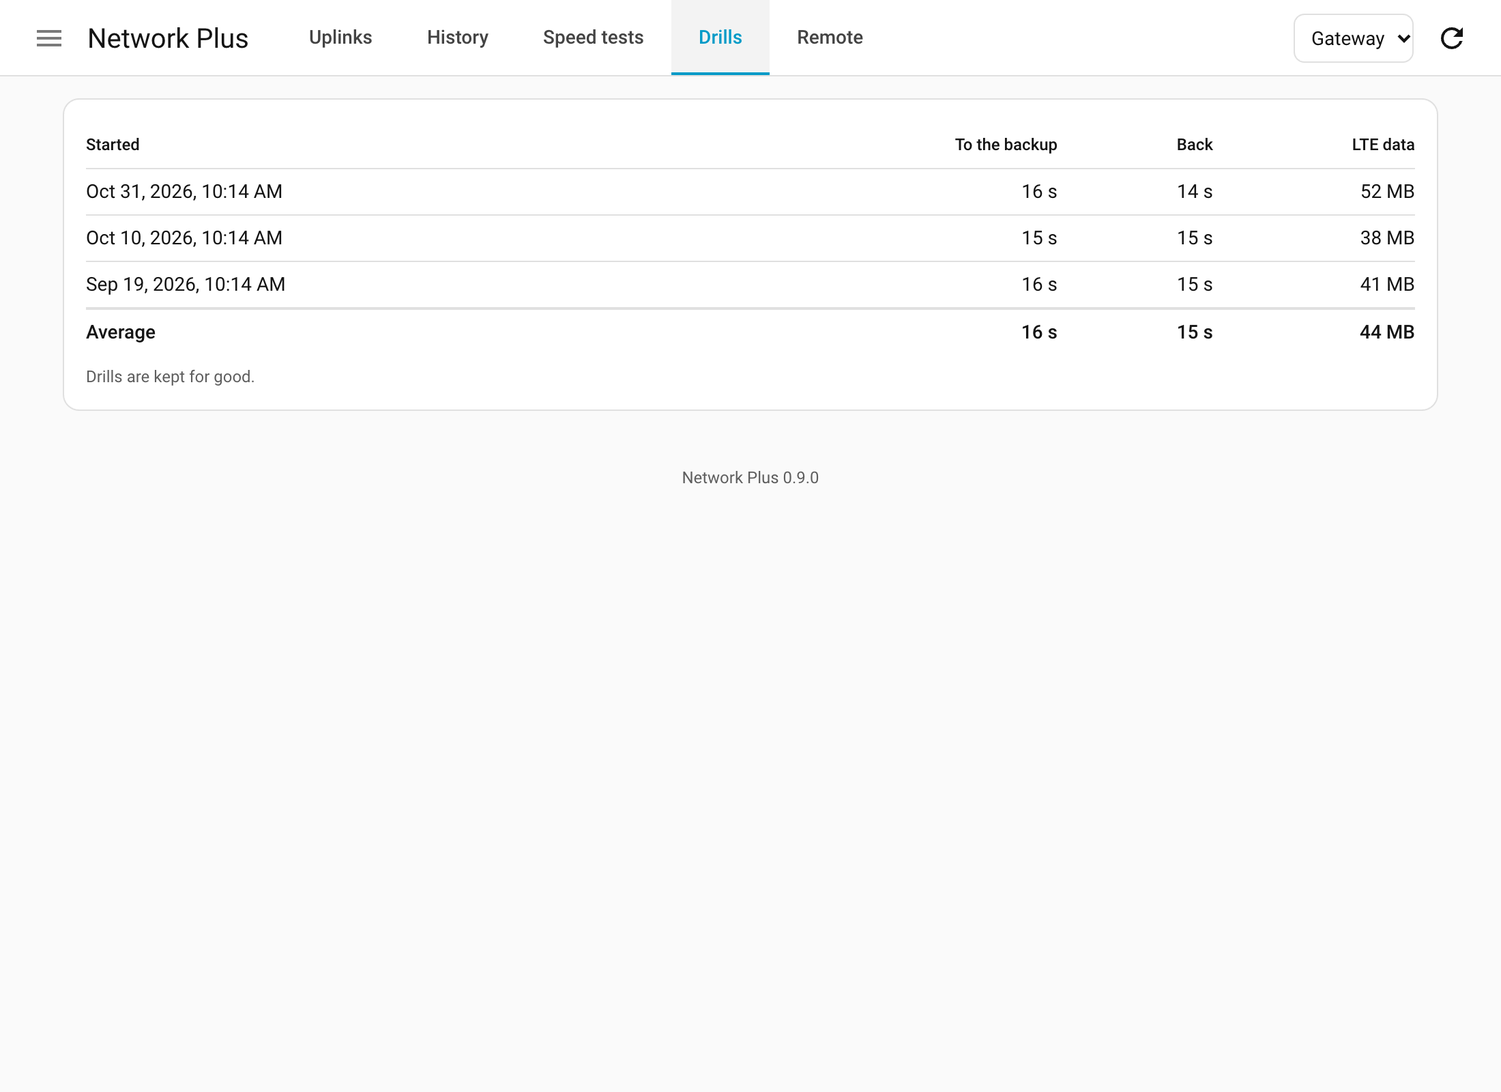
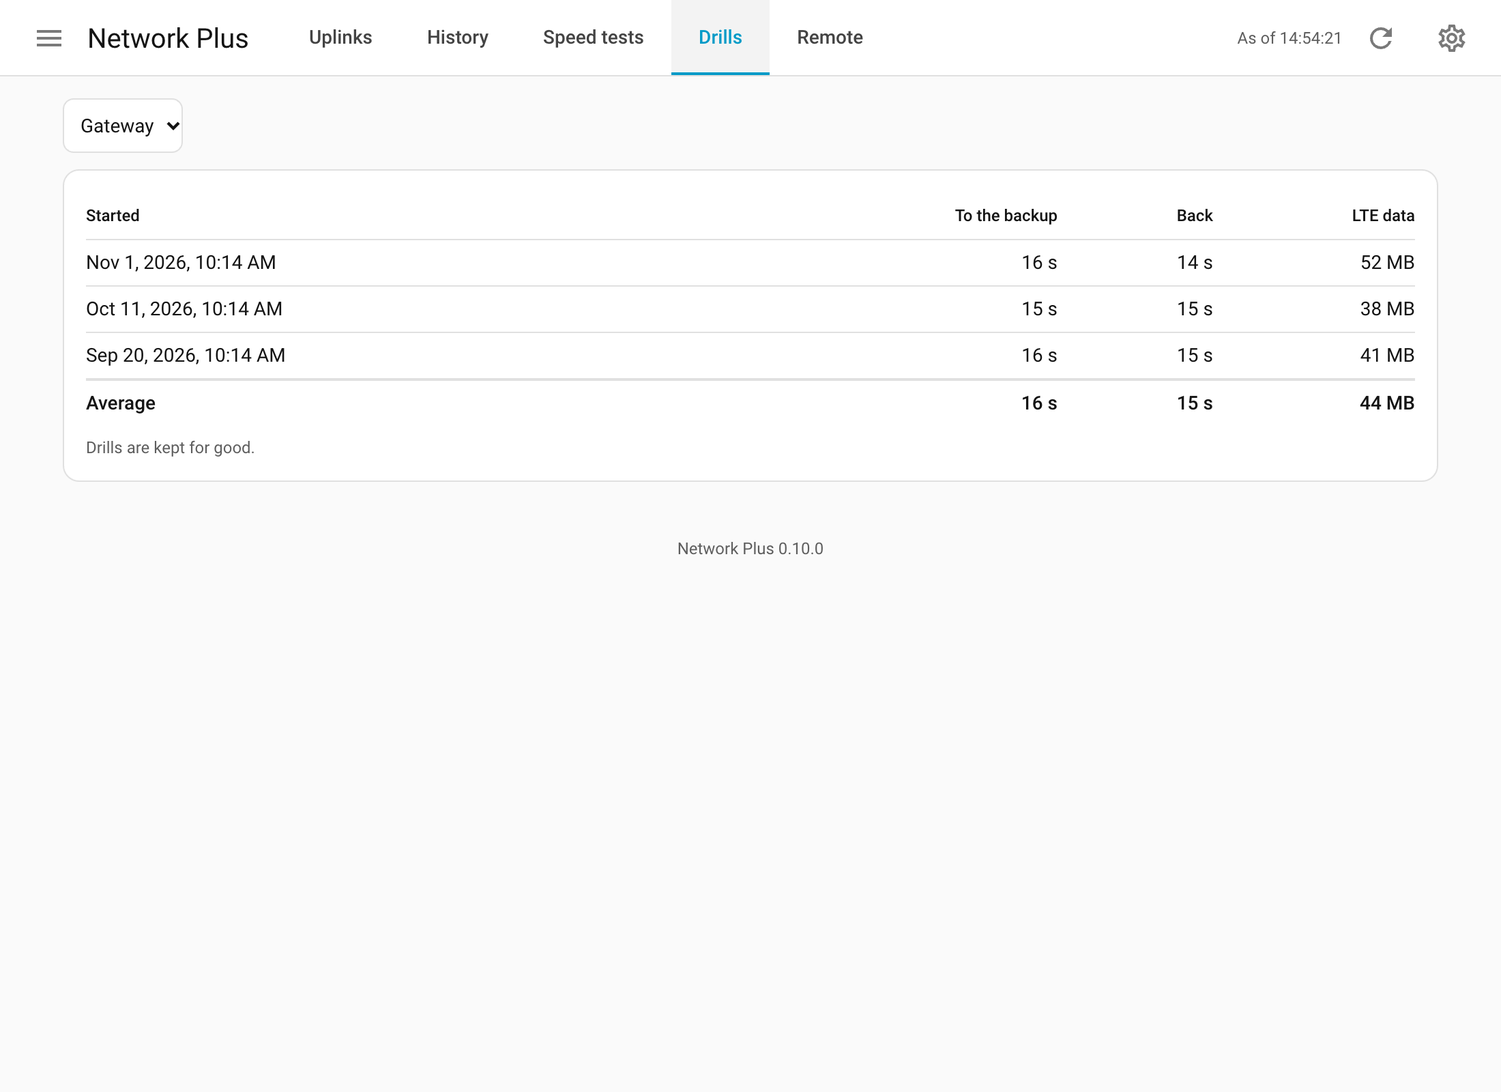
Same header as every page: stamp, refresh, settings (0.10.0)
The toolbar of the page ends, on every tab, with the time the page last
got its data ("As of HH:MM:SS", hidden on a phone), refresh (the overview
request again over the WebSocket, spinning while it loads) and settings
(Home Assistant's page of the integration by in-app navigation), as
STANDARD.md §7 of the repository template asks. The console choice moved
from the toolbar to the top of the page. The page check tests the order on
every tab, that refresh sends the request, shows changed data and a new
stamp, that settings opens the integration page without a reload, and the
stamp hidden on a phone. Screenshots and docs updated.

diff --git a/custom_components/network_plus/frontend/network-plus-panel.js b/custom_components/network_plus/frontend/network-plus-panel.js
@@ -4,6 +4,8 @@
 // integration over the WebSocket API; the page is built from Home Assistant's
 // own elements (ha-card, ha-alert, ha-icon-button) and its theme.
 const PANEL_PATH = "/network-plus";
+// Home Assistant's own page of the integration, behind the settings button
+const SETTINGS_PATH = "/config/integrations/integration/network_plus";
 // The page asks again this often while it is open (ms)
 const REFRESH = 30000;
 
@@ -15,6 +17,8 @@ if (!customElements.get("network-plus-panel")) {
     speedtests: "M12,16A3,3 0 0,1 9,13C9,11.88 9.61,10.9 10.5,10.39L20.21,4.77L14.68,14.35C14.18,15.33 13.17,16 12,16M12,3C13.81,3 15.5,3.5 16.97,4.32L14.87,5.53C14,5.19 13,5 12,5A8,8 0 0,0 4,13C4,15.21 4.89,17.21 6.34,18.65H6.35C6.74,19.04 6.74,19.67 6.35,20.06C5.96,20.45 5.32,20.45 4.93,20.07V20.07C3.12,18.26 2,15.76 2,13A10,10 0 0,1 12,3M22,13C22,15.76 20.88,18.26 19.07,20.07V20.07C18.68,20.45 18.05,20.45 17.66,20.06C17.27,19.67 17.27,19.04 17.66,18.65V18.65C19.11,17.2 20,15.21 20,13C20,12 19.81,11 19.46,10.1L20.67,8C21.5,9.5 22,11.18 22,13Z",
     drills: "M21,9L17,5V8H10V10H17V13M7,11L3,15L7,19V16H14V14H7V11Z",
     remote: "M9,5H15L12,8L9,5M10.5,14.66C10.2,15 10,15.5 10,16A2,2 0 0,0 12,18A2,2 0 0,0 14,16C14,15.45 13.78,14.95 13.41,14.59L14.83,13.17C15.55,13.9 16,14.9 16,16A4,4 0 0,1 12,20A4,4 0 0,1 8,16C8,14.93 8.42,13.96 9.1,13.25L9.09,13.24L16.17,6.17V6.17C16.89,5.45 17.89,5 19,5A4,4 0 0,1 23,9A4,4 0 0,1 19,13C17.9,13 16.9,12.55 16.17,11.83L17.59,10.41C17.95,10.78 18.45,11 19,11A2,2 0 0,0 21,9A2,2 0 0,0 19,7C18.45,7 17.95,7.22 17.59,7.59L10.5,14.66M6.41,7.59C6.05,7.22 5.55,7 5,7A2,2 0 0,0 3,9A2,2 0 0,0 5,11C5.55,11 6.05,10.78 6.41,10.41L7.83,11.83C7.1,12.55 6.1,13 5,13A4,4 0 0,1 1,9A4,4 0 0,1 5,5C6.11,5 7.11,5.45 7.83,6.17V6.17L10.59,8.93L9.17,10.35L6.41,7.59Z",
+    // mdi:cog-outline
+    settings: "M12,8A4,4 0 0,1 16,12A4,4 0 0,1 12,16A4,4 0 0,1 8,12A4,4 0 0,1 12,8M12,10A2,2 0 0,0 10,12A2,2 0 0,0 12,14A2,2 0 0,0 14,12A2,2 0 0,0 12,10M10,22C9.75,22 9.54,21.82 9.5,21.58L9.13,18.93C8.5,18.68 7.96,18.34 7.44,17.94L4.95,18.95C4.73,19.03 4.46,18.95 4.34,18.73L2.34,15.27C2.21,15.05 2.27,14.78 2.46,14.63L4.57,12.97L4.5,12L4.57,11L2.46,9.37C2.27,9.22 2.21,8.95 2.34,8.73L4.34,5.27C4.46,5.05 4.73,4.96 4.95,5.05L7.44,6.05C7.96,5.66 8.5,5.32 9.13,5.07L9.5,2.42C9.54,2.18 9.75,2 10,2H14C14.25,2 14.46,2.18 14.5,2.42L14.87,5.07C15.5,5.32 16.04,5.66 16.56,6.05L19.05,5.05C19.27,4.96 19.54,5.05 19.66,5.27L21.66,8.73C21.79,8.95 21.73,9.22 21.54,9.37L19.43,11L19.5,12L19.43,13L21.54,14.63C21.73,14.78 21.79,15.05 21.66,15.27L19.66,18.73C19.54,18.95 19.27,19.04 19.05,18.95L16.56,17.95C16.04,18.34 15.5,18.68 14.87,18.93L14.5,21.58C14.46,21.82 14.25,22 14,22H10M11.25,4L10.88,6.61C9.68,6.86 8.62,7.5 7.85,8.39L5.44,7.35L4.69,8.65L6.8,10.2C6.4,11.37 6.4,12.64 6.8,13.8L4.68,15.36L5.43,16.66L7.86,15.62C8.63,16.5 9.68,17.14 10.87,17.38L11.24,20H12.76L13.13,17.39C14.32,17.14 15.37,16.5 16.14,15.62L18.57,16.66L19.32,15.36L17.2,13.81C17.6,12.64 17.6,11.37 17.2,10.2L19.31,8.65L18.56,7.35L16.15,8.39C15.38,7.5 14.32,6.86 13.12,6.62L12.75,4H11.25Z",
     refresh: "M17.65,6.35C16.2,4.9 14.21,4 12,4A8,8 0 0,0 4,12A8,8 0 0,0 12,20C15.73,20 18.84,17.45 19.73,14H17.65C16.83,16.33 14.61,18 12,18A6,6 0 0,1 6,12A6,6 0 0,1 12,6C13.66,6 15.14,6.69 16.22,7.78L13,11H20V4L17.65,6.35Z",
   };
 
@@ -30,7 +34,7 @@ if (!customElements.get("network-plus-panel")) {
   const TEXTS = {
     en: {
       tabUplinks: "Uplinks", tabEvents: "History", tabSpeedtests: "Speed tests", tabDrills: "Drills",
-      tabRemote: "Remote", menu: "Menu", refresh: "Refresh", console: "Console",
+      tabRemote: "Remote", menu: "Menu", refresh: "Refresh", settings: "Settings", asOf: "As of {t}", console: "Console",
       loading: "Loading …", noConsole: "No console is set up. Add one under Settings → Devices & services.",
       notLoaded: "This console is not loaded at the moment. Home Assistant tries again by itself.",
       failed: "The data could not be read", now: "Now", active: "active", preferred: "preferred", backup: "backup",
@@ -53,7 +57,7 @@ if (!customElements.get("network-plus-panel")) {
     },
     de: {
       tabUplinks: "Leitungen", tabEvents: "Verlauf", tabSpeedtests: "Speedtests", tabDrills: "Übungen",
-      tabRemote: "Fernzugriff", menu: "Menü", refresh: "Aktualisieren", console: "Konsole",
+      tabRemote: "Fernzugriff", menu: "Menü", refresh: "Aktualisieren", settings: "Einstellungen", asOf: "Stand {t}", console: "Konsole",
       loading: "Lädt …", noConsole: "Keine Konsole eingerichtet. Unter Einstellungen → Geräte & Dienste hinzufügen.",
       notLoaded: "Diese Konsole ist gerade nicht geladen. Home Assistant versucht es selbst erneut.",
       failed: "Die Daten ließen sich nicht lesen", now: "Jetzt", active: "aktiv", preferred: "bevorzugt", backup: "Backup",
@@ -96,6 +100,9 @@ if (!customElements.get("network-plus-panel")) {
       this._frameKey = null;
       // Counts the requests: only the answer to the latest one counts
       this._request = 0;
+      // Requests on their way (the refresh button spins) and when the data last came
+      this._pending = 0;
+      this._loadedAt = null;
       this._bindOnce();
     }
 
@@ -154,6 +161,8 @@ if (!customElements.get("network-plus-panel")) {
       const msg = { type: "network_plus/overview" };
       if (this._entryId) msg.entry_id = this._entryId;
       let data;
+      this._pending += 1;
+      this._busy();
       try {
         data = await this._hass.callWS(msg);
       } catch (err) {
@@ -166,10 +175,14 @@ if (!customElements.get("network-plus-panel")) {
         this._error = err?.message || String(err);
         this._render();
         return;
+      } finally {
+        this._pending -= 1;
+        this._busy();
       }
       if (request !== this._request) return;
       this._data = data;
       this._error = null;
+      this._loadedAt = Date.now();
       this._entryId = data.console?.entry_id || this._entryId;
       this._render();
     }
@@ -188,6 +201,11 @@ if (!customElements.get("network-plus-panel")) {
         const act = e.target.closest?.("[data-act]")?.dataset.act;
         if (act === "menu") this.dispatchEvent(new CustomEvent("hass-toggle-menu", { bubbles: true, composed: true }));
         if (act === "refresh") this._load();
+        // In-app navigation like Home Assistant's own links, no page reload
+        if (act === "settings") {
+          window.history.pushState(null, "", SETTINGS_PATH);
+          window.dispatchEvent(new CustomEvent("location-changed", { detail: { replace: false } }));
+        }
       });
       root.addEventListener("change", (e) => {
         if (e.target.id !== "console") return;
@@ -217,9 +235,24 @@ if (!customElements.get("network-plus-panel")) {
       const about = this.shadowRoot.getElementById("about");
       const version = this._data?.version;
       if (about) about.textContent = version ? `Network Plus ${version}` : "";
+      // When the page last got its data
+      const stamp = this.shadowRoot.getElementById("stamp");
+      if (stamp) {
+        stamp.textContent = this._loadedAt
+          ? fill(this._t.asOf, { t: new Date(this._loadedAt).toLocaleTimeString(this._lang, { hour: "2-digit", minute: "2-digit", second: "2-digit", hourCycle: "h23" }) })
+          : "";
+      }
+      this._busy();
     }
 
-    // The parts that stay while the page is open: toolbar, tabs, console choice
+    // The refresh button spins while a request is on its way
+    _busy() {
+      this.shadowRoot.getElementById("refresh")?.classList.toggle("spin", this._pending > 0);
+    }
+
+    // The parts that stay while the page is open: toolbar, tabs, console choice.
+    // The header ends like on every page of Nico's integrations and apps: the
+    // time of the data, refresh, and Home Assistant's page of the integration
     _frame(consoles) {
       const t = this._t;
       const tabs = TABS.map(([id, ic, label]) =>
@@ -237,8 +270,10 @@ if (!customElements.get("network-plus-panel")) {
         <div class="app${this._narrow ? " narrow" : ""}">
           <div class="toolbar">${menu}<div class="main-title">Network Plus</div>
             ${this._narrow ? "" : `<nav class="tabs">${tabs}</nav>`}
-            <div class="tools">${choice}<ha-icon-button data-act="refresh" label="${esc(t.refresh)}" path="${MDI.refresh}"></ha-icon-button></div></div>
-          <div class="content"><div class="sheet" id="sheet"></div><div class="about" id="about"></div></div>
+            <div class="tools"><span class="stamp" id="stamp"></span>
+              <ha-icon-button id="refresh" data-act="refresh" label="${esc(t.refresh)}" path="${MDI.refresh}"></ha-icon-button>
+              <ha-icon-button id="settings" data-act="settings" label="${esc(t.settings)}" path="${MDI.settings}"></ha-icon-button></div></div>
+          <div class="content">${choice ? `<div class="choice">${choice}</div>` : ""}<div class="sheet" id="sheet"></div><div class="about" id="about"></div></div>
           ${this._narrow ? `<nav class="bottom-tabs">${tabs}</nav>` : ""}
         </div>`;
       this._sheetHtml = null;
@@ -557,7 +592,18 @@ if (!customElements.get("network-plus-panel")) {
     .tab.active { color: var(--primary-color); opacity: 1; }
     .tabs .tab.active::after { content: ""; position: absolute; left: 0; right: 0; bottom: 0; height: 2px; background: var(--primary-color); }
     .tools { display: flex; align-items: center; gap: 4px; margin-left: auto; padding-left: 8px; }
-    .tools select { height: 36px; max-width: 40vw; padding: 0 8px; border-radius: 8px; border: 1px solid var(--divider-color);
+    .stamp { color: var(--secondary-text-color); font-size: var(--ha-font-size-s, 12px); white-space: nowrap; font-variant-numeric: tabular-nums; }
+    .narrow .stamp { display: none; }
+    @media (max-width: 600px) { .stamp { display: none; } }
+    .tools ha-icon-button { color: var(--sidebar-icon-color, var(--secondary-text-color)); }
+    .tools ha-icon-button.spin { animation: spin 1s linear infinite; }
+    @keyframes spin { to { transform: rotate(360deg); } }
+    /* The console choice belongs to the page, so it sits above the cards, not in the header */
+    .choice { max-width: 1040px; margin: 0 auto; padding: 16px 16px 0; }
+    .narrow .choice { padding: 8px 8px 0; }
+    .choice + .sheet { padding-top: 12px; }
+    .narrow .choice + .sheet { padding-top: 8px; }
+    .choice select { height: 40px; max-width: 100%; padding: 0 8px; border-radius: 8px; border: 1px solid var(--divider-color);
       background: var(--card-background-color); color: var(--primary-text-color); font: inherit; }
     .bottom-tabs { display: flex; flex: none; justify-content: space-around; background: var(--sidebar-background-color);
       border-top: 1px solid var(--divider-color); padding-bottom: env(safe-area-inset-bottom); }

diff --git a/scripts/panel/check_panel.py b/scripts/panel/check_panel.py
@@ -27,6 +27,7 @@ from datetime import UTC, datetime, timedelta
 import json
 from pathlib import Path
 import random
+import re
 import shutil
 import socket
 import subprocess
@@ -571,8 +572,56 @@ async def _text(page: Page) -> str:
     return await page.locator(f"{PANEL} #sheet").inner_text()
 
 
+STAMP = re.compile(r"As of \d{2}:\d{2}:\d{2}")
+# mdi:refresh and mdi:cog-outline, as Home Assistant and the other pages draw them
+REFRESH_ICON = "M17.65,6.35"
+SETTINGS_ICON = "M12,8A4,4 0 0,1 16,12"
+SETTINGS_PATH = "/config/integrations/integration/network_plus"
+
+
+async def _stamp(page: Page) -> str:
+    return (await page.locator(f"{PANEL} #stamp").inner_text()).strip()
+
+
+async def _header(page: Page, where: str) -> None:
+    """The end of the header: stamp, refresh, settings, in this order and nothing else."""
+    parts = await page.locator(f"{PANEL} .toolbar .tools").evaluate(
+        """el => [...el.children].map((c) => ({
+            tag: c.localName, id: c.id, label: c.getAttribute("label"),
+            path: c.getAttribute("path") || "", text: c.textContent.trim()}))"""
+    )
+    shape = [(part["tag"], part["id"]) for part in parts]
+    expect(
+        shape == [("span", "stamp"), ("ha-icon-button", "refresh"), ("ha-icon-button", "settings")],
+        f"{where}: header ends with {shape}",
+    )
+    expect(bool(STAMP.fullmatch(parts[0]["text"])), f"{where}: stamp {parts[0]['text']!r}")
+    expect(
+        parts[1]["label"] == "Refresh" and parts[1]["path"].startswith(REFRESH_ICON),
+        f"{where}: refresh button {parts[1]}",
+    )
+    expect(
+        parts[2]["label"] == "Settings" and parts[2]["path"].startswith(SETTINGS_ICON),
+        f"{where}: settings button {parts[2]}",
+    )
+
+
 async def check_page(browser: Browser, instance: Instance, api: Api, shots: Path | None) -> Checks:
     page = await _open(browser, instance, ADMIN)
+    # The overview requests the page sends over the WebSocket
+    overviews: list[float] = []
+
+    def watch(ws: Any) -> None:
+        ws.on(
+            "framesent",
+            lambda frame: (
+                overviews.append(time.monotonic())
+                if '"network_plus/overview"' in str(frame)
+                else None
+            ),
+        )
+
+    page.on("websocket", watch)
 
     async def from_start() -> None:
         """Every check starts on the first tab, whatever the one before left behind."""
@@ -662,6 +711,101 @@ async def check_page(browser: Browser, instance: Instance, api: Api, shots: Path
 
     await checks.run("choosing another console shows it and keeps it", console_choice)
 
+    async def header() -> None:
+        for tab in ("uplinks", "events", "speedtests", "drills", "remote"):
+            if tab != "uplinks":
+                await _tab(page, tab)
+            await _header(page, tab)
+            expect(
+                await page.locator(f"{PANEL} .toolbar select").count() == 0,
+                f"{tab}: the console choice in the header",
+            )
+            expect(await page.locator(f"{PANEL} #stamp").is_visible(), f"{tab}: stamp hidden")
+
+    await checks.run("header on every tab: stamp, refresh and settings in this order", header)
+
+    async def switch_state(entity_id: str, wanted: str) -> None:
+        deadline = time.monotonic() + 30
+        while time.monotonic() < deadline:
+            reply = await api.ws(instance.token, {"type": "get_states"})
+            state = next(s for s in reply["result"] if s["entity_id"] == entity_id)
+            if state["state"] == wanted:
+                return
+            await asyncio.sleep(0.3)
+        raise AssertionError(f"{entity_id} did not become {wanted}")
+
+    async def enforced(wanted: str) -> None:
+        row = page.locator(f"{PANEL} table.kv tr", has_text="Backup uplink enforced")
+        await row.locator("td", has_text=re.compile(f"^{wanted}$")).wait_for(timeout=10000)
+
+    async def refresh() -> None:
+        await enforced("no")
+        states = await api.ws(instance.token, {"type": "get_states"})
+        switch = next(
+            s["entity_id"]
+            for s in states["result"]
+            if s["entity_id"].startswith("switch.gateway") and "enforce" in s["entity_id"]
+        )
+        try:
+            for wanted, shown in (("on", "yes"), ("off", "no")):
+                before = await _stamp(page)
+                # The stamp counts seconds: let one pass so a new one differs
+                await page.wait_for_timeout(1100)
+                service = "turn_on" if wanted == "on" else "turn_off"
+                await api.post(
+                    instance.token, f"/api/services/switch/{service}", {"entity_id": switch}
+                )
+                await switch_state(switch, wanted)
+                sent = len(overviews)
+                clicked = time.monotonic()
+                # The click and the class in one go: the button spins while the answer is on its way
+                spinning = await page.locator(f"{PANEL} #refresh").evaluate(
+                    "el => { el.click(); return el.classList.contains('spin'); }"
+                )
+                expect(spinning, "the refresh button does not spin while loading")
+                await enforced(shown)
+                expect(
+                    any(at >= clicked for at in overviews[sent:]),
+                    "refresh sent no request over the WebSocket",
+                )
+                await page.locator(f"{PANEL} #refresh:not(.spin)").wait_for()
+                after = await _stamp(page)
+                expect(
+                    after != before and STAMP.fullmatch(after) is not None,
+                    f"stamp {before!r} → {after!r}",
+                )
+        finally:
+            # Whatever failed, the next checks start with the uplink on
+            if instance.consoles[0].wan_type != "dhcp":
+                await api.post(
+                    instance.token, "/api/services/switch/turn_off", {"entity_id": switch}
+                )
+        expect(instance.consoles[0].wan_type == "dhcp", "the uplink did not come back")
+
+    await checks.run(
+        "refresh fetches the data again over the WebSocket, spins and moves the stamp", refresh
+    )
+
+    async def settings() -> None:
+        await page.evaluate("window.__noReload = true")
+        await page.locator(f"{PANEL} #settings").click()
+        await page.wait_for_url(f"**{SETTINGS_PATH}")
+        expect(
+            await page.evaluate("window.__noReload === true"),
+            "the settings button reloaded the whole page",
+        )
+        await page.wait_for_function(
+            """() => {
+                const main = document.querySelector('home-assistant')?.shadowRoot
+                    ?.querySelector('home-assistant-main')?.shadowRoot;
+                return !!main && !main.querySelector('network-plus-panel')
+                    && !!main.querySelector('ha-panel-config');
+            }""",
+            timeout=30000,
+        )
+
+    await checks.run("settings opens Home Assistant's page of the integration in the app", settings)
+
     async def phone_and_dark() -> None:
         for scheme in ("light", "dark"):
             phone = await _open(
@@ -682,6 +826,12 @@ async def check_page(browser: Browser, instance: Instance, api: Api, shots: Path
             expect(
                 await phone.locator(f"{PANEL} nav.bottom-tabs a.tab").count() == 5,
                 "tabs at the bottom on a phone",
+            )
+            expect(
+                not await phone.locator(f"{PANEL} #stamp").is_visible()
+                and await phone.locator(f"{PANEL} #refresh").is_visible()
+                and await phone.locator(f"{PANEL} #settings").is_visible(),
+                "on a phone: stamp hidden, refresh and settings shown",
             )
             background = await phone.locator(PANEL).evaluate(
                 "el => getComputedStyle(el).backgroundColor"

diff --git a/README.md b/README.md
@@ -106,7 +106,7 @@ If the console has an LTE backup device, it gets a device of its own below the g
 
 ### The page
 
-**Network Plus** in the sidebar, for administrators. It shows one console at a time (a choice in the toolbar when there are several) and reads it again every 30 seconds while it is open:
+**Network Plus** in the sidebar, for administrators. It shows one console at a time (a choice above the cards when there are several) and reads it again every 30 seconds while it is open. The header ends like on every page of these integrations and apps: the time the page last got its data ("As of 14:02:37", hidden on a phone), **Refresh** (reads the data again at once) and **Settings** (Home Assistant's page of the integration):
 
 - **Uplinks**: the active uplink, latency, last switch, last speed test and last drill; per uplink its state, the gateway's latency and availability, the negotiated link speed against the expected one, port, connection type and public addresses; the LTE backup with data used against the plan and the signal.
 - **History**: failovers and returns with how long the backup carried the traffic, brief failovers, uplinks going down and up with how long they were gone, new public addresses (the uplink and the family, not the address).
@@ -523,7 +523,7 @@ scripts/check.sh
 
 `scripts/check.sh` runs what CI runs: ruff, the changelog and translation checks, mypy, the tests with their coverage threshold, the page checks and hassfest in Docker.
 
-The page checks start two made-up consoles (HTTPS on 127.0.0.1 with their own certificates) and a throwaway Home Assistant, reachable from this machine only, add the consoles through the config flow (one pinned, one with the check off), and drive the page in a headless browser (all tabs, the console choice, version line, phone width, dark mode, no page and no admin writes for non-administrators), then stop Home Assistant again. They need their own environment:
+The page checks start two made-up consoles (HTTPS on 127.0.0.1 with their own certificates) and a throwaway Home Assistant, reachable from this machine only, add the consoles through the config flow (one pinned, one with the check off), and drive the page in a headless browser (all tabs, the header with stamp, refresh and settings, the console choice, version line, phone width, dark mode, no page and no admin writes for non-administrators), then stop Home Assistant again. They need their own environment:
 
 ```bash
 uv venv --python 3.14 .venv-panel && uv pip install --python .venv-panel/bin/python -r requirements_panel.txt

diff --git a/CHANGELOG.md b/CHANGELOG.md
@@ -4,6 +4,17 @@ All notable changes are listed here. The format follows [Keep a Changelog](https
 
 ## [Unreleased]
 
+## [0.10.0] - 2026-11-11
+
+### Added
+
+- **The same header as on every page of these integrations and apps**: the toolbar of the page ends with the time the page last got its data ("As of 14:02:37", hidden on a phone), *Refresh* and *Settings*. Refresh reads the data again over the WebSocket without reloading the page, spins while it loads and moves the time; Settings opens Home Assistant's page of the integration (Settings → Devices & services → Network Plus) inside the app. Both on every tab.
+
+### Changed
+
+- The choice of the console (with more than one) moved from the toolbar to the top of the page, above the cards.
+- The page check (CI job Page) tests the header on every tab: the order stamp, refresh, settings; that refresh sends the request again, shows the changed data and a new time; that settings opens the integration's page without reloading; the stamp hidden on a phone.
+
 ## [0.9.1] - 2026-11-11
 
 ### Fixed

diff --git a/ARCHITECTURE.md b/ARCHITECTURE.md
@@ -219,7 +219,12 @@ poll (60 s) ─────────────▶ NetworkCoordinator._async
 - The page is plain JavaScript without a build step, one file, built from
   Home Assistant's own elements (`ha-card`, `ha-alert`, `ha-icon-button`),
   which the frontend has loaded already, with the toolbar and tabs of the
-  settings pages; colours come from the theme. Its URL carries a hash of
+  settings pages; colours come from the theme. The toolbar ends with the
+  header all of these integrations and apps share (STANDARD.md §7 of the
+  repository template): the time of the last answer, refresh (the same
+  WebSocket request again, no page reload) and settings (Home Assistant's
+  page of the integration, opened by in-app navigation). The console
+  choice is part of the page, so it sits above the cards. Its URL carries a hash of
   the file, so a browser fetches every changed page. It holds no version of
   its own.
 
